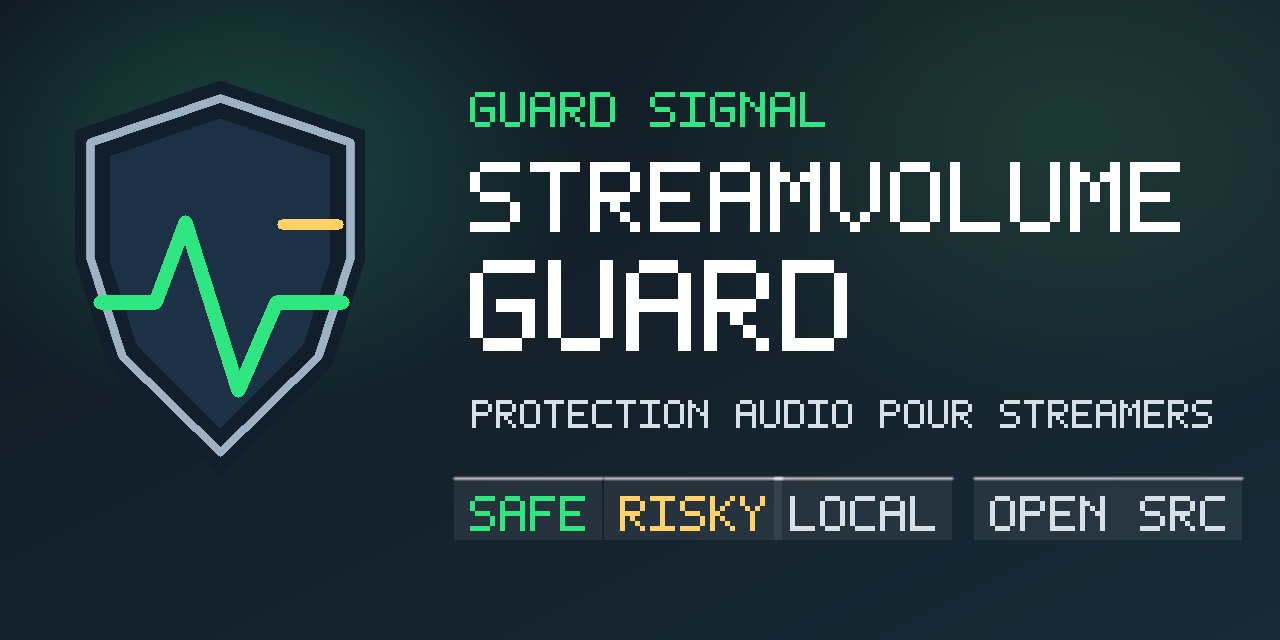
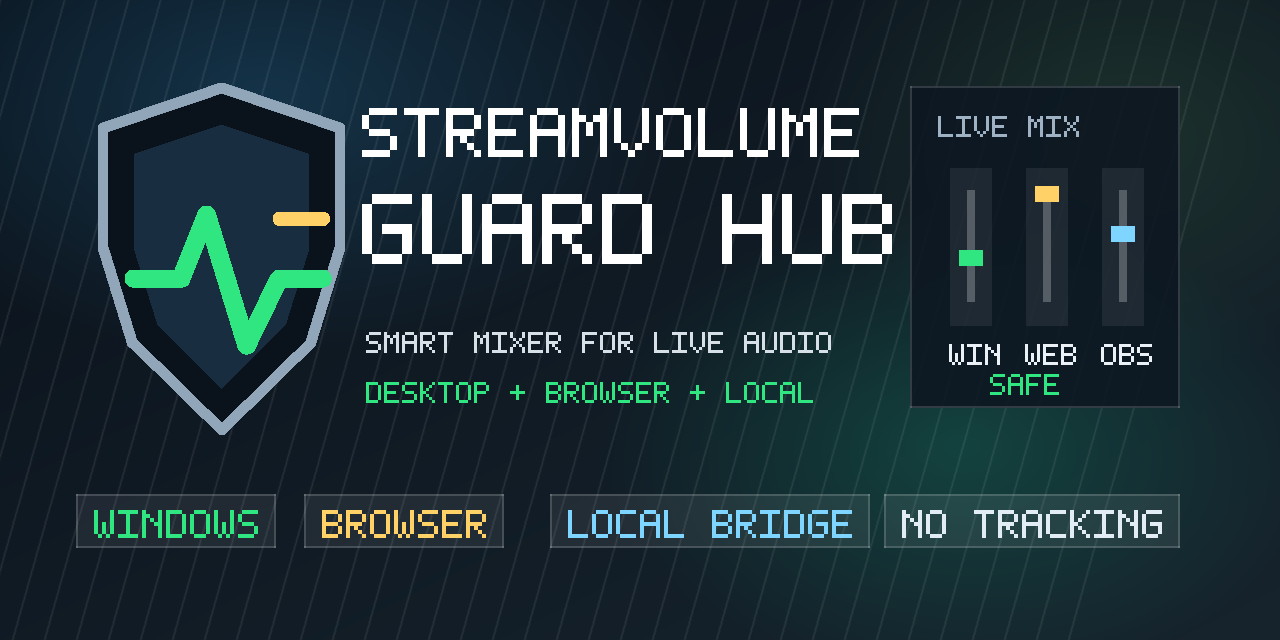
Refresh social preview image

Changed region(s): [[0.0625, 0.125, 0.9375, 0.7188], [0.25, 0.5312, 0.9688, 0.875], [0.0625, 0.75, 0.2188, 0.875]]

diff --git a/apps/browser-extension/tools/generate-social-preview-hub-png.js b/apps/browser-extension/tools/generate-social-preview-hub-png.js
@@ -1,0 +1,282 @@
+const fs = require("node:fs");
+const path = require("node:path");
+const zlib = require("node:zlib");
+
+const root = path.resolve(__dirname, "..");
+const output = path.join(root, "assets", "social-preview.png");
+const width = 1280;
+const height = 640;
+const pixels = Buffer.alloc(width * height * 4);
+
+const font = {
+  " ": ["00000", "00000", "00000", "00000", "00000", "00000", "00000"],
+  "+": ["00000", "00100", "00100", "11111", "00100", "00100", "00000"],
+  "A": ["01110", "10001", "10001", "11111", "10001", "10001", "10001"],
+  "B": ["11110", "10001", "10001", "11110", "10001", "10001", "11110"],
+  "C": ["01111", "10000", "10000", "10000", "10000", "10000", "01111"],
+  "D": ["11110", "10001", "10001", "10001", "10001", "10001", "11110"],
+  "E": ["11111", "10000", "10000", "11110", "10000", "10000", "11111"],
+  "F": ["11111", "10000", "10000", "11110", "10000", "10000", "10000"],
+  "G": ["01111", "10000", "10000", "10111", "10001", "10001", "01110"],
+  "H": ["10001", "10001", "10001", "11111", "10001", "10001", "10001"],
+  "I": ["11111", "00100", "00100", "00100", "00100", "00100", "11111"],
+  "K": ["10001", "10010", "10100", "11000", "10100", "10010", "10001"],
+  "L": ["10000", "10000", "10000", "10000", "10000", "10000", "11111"],
+  "M": ["10001", "11011", "10101", "10101", "10001", "10001", "10001"],
+  "N": ["10001", "11001", "10101", "10011", "10001", "10001", "10001"],
+  "O": ["01110", "10001", "10001", "10001", "10001", "10001", "01110"],
+  "P": ["11110", "10001", "10001", "11110", "10000", "10000", "10000"],
+  "R": ["11110", "10001", "10001", "11110", "10100", "10010", "10001"],
+  "S": ["01111", "10000", "10000", "01110", "00001", "00001", "11110"],
+  "T": ["11111", "00100", "00100", "00100", "00100", "00100", "00100"],
+  "U": ["10001", "10001", "10001", "10001", "10001", "10001", "01110"],
+  "V": ["10001", "10001", "10001", "10001", "10001", "01010", "00100"],
+  "W": ["10001", "10001", "10001", "10101", "10101", "10101", "01010"],
+  "X": ["10001", "10001", "01010", "00100", "01010", "10001", "10001"],
+  "Y": ["10001", "10001", "01010", "00100", "00100", "00100", "00100"]
+};
+
+const crcTable = new Uint32Array(256).map((_, index) => {
+  let crc = index;
+  for (let bit = 0; bit < 8; bit += 1) {
+    crc = crc & 1 ? 0xedb88320 ^ (crc >>> 1) : crc >>> 1;
+  }
+  return crc >>> 0;
+});
+
+function clamp(value) {
+  return Math.max(0, Math.min(255, Math.round(value)));
+}
+
+function mix(a, b, amount) {
+  return a + (b - a) * amount;
+}
+
+function putPixel(x, y, color) {
+  if (x < 0 || y < 0 || x >= width || y >= height) return;
+  const index = (Math.floor(y) * width + Math.floor(x)) * 4;
+  const alpha = (color[3] ?? 255) / 255;
+  pixels[index] = clamp(color[0] * alpha + pixels[index] * (1 - alpha));
+  pixels[index + 1] = clamp(color[1] * alpha + pixels[index + 1] * (1 - alpha));
+  pixels[index + 2] = clamp(color[2] * alpha + pixels[index + 2] * (1 - alpha));
+  pixels[index + 3] = 255;
+}
+
+function fillRect(x, y, w, h, color) {
+  for (let yy = Math.floor(y); yy < y + h; yy += 1) {
+    for (let xx = Math.floor(x); xx < x + w; xx += 1) {
+      putPixel(xx, yy, color);
+    }
+  }
+}
+
+function strokeRect(x, y, w, h, thickness, color) {
+  fillRect(x, y, w, thickness, color);
+  fillRect(x, y + h - thickness, w, thickness, color);
+  fillRect(x, y, thickness, h, color);
+  fillRect(x + w - thickness, y, thickness, h, color);
+}
+
+function fillCircle(cx, cy, radius, color) {
+  const r2 = radius * radius;
+  for (let y = cy - radius; y <= cy + radius; y += 1) {
+    for (let x = cx - radius; x <= cx + radius; x += 1) {
+      const dx = x - cx;
+      const dy = y - cy;
+      if (dx * dx + dy * dy <= r2) putPixel(x, y, color);
+    }
+  }
+}
+
+function drawLine(x1, y1, x2, y2, thickness, color) {
+  const steps = Math.max(Math.abs(x2 - x1), Math.abs(y2 - y1));
+  for (let i = 0; i <= steps; i += 1) {
+    const t = steps === 0 ? 0 : i / steps;
+    fillCircle(Math.round(mix(x1, x2, t)), Math.round(mix(y1, y2, t)), thickness, color);
+  }
+}
+
+function fillPolygon(points, color) {
+  const minY = Math.floor(Math.min(...points.map((point) => point[1])));
+  const maxY = Math.ceil(Math.max(...points.map((point) => point[1])));
+  for (let y = minY; y <= maxY; y += 1) {
+    const nodes = [];
+    let j = points.length - 1;
+    for (let i = 0; i < points.length; i += 1) {
+      const pi = points[i];
+      const pj = points[j];
+      if ((pi[1] < y && pj[1] >= y) || (pj[1] < y && pi[1] >= y)) {
+        nodes.push(pi[0] + ((y - pi[1]) / (pj[1] - pi[1])) * (pj[0] - pi[0]));
+      }
+      j = i;
+    }
+    nodes.sort((a, b) => a - b);
+    for (let i = 0; i < nodes.length; i += 2) {
+      for (let x = Math.floor(nodes[i]); x < Math.ceil(nodes[i + 1]); x += 1) {
+        putPixel(x, y, color);
+      }
+    }
+  }
+}
+
+function drawText(text, x, y, scale, color) {
+  let cursor = x;
+  for (const char of text.toUpperCase()) {
+    const glyph = font[char] || font[" "];
+    glyph.forEach((row, rowIndex) => {
+      [...row].forEach((cell, colIndex) => {
+        if (cell === "1") {
+          fillRect(cursor + colIndex * scale, y + rowIndex * scale, scale, scale, color);
+        }
+      });
+    });
+    cursor += 6 * scale;
+  }
+}
+
+function drawBackground() {
+  for (let y = 0; y < height; y += 1) {
+    for (let x = 0; x < width; x += 1) {
+      const diagonal = (x / width + y / height) / 2;
+      const topGlow = Math.max(0, 1 - Math.hypot((x - 260) / 430, (y - 92) / 260));
+      const greenGlow = Math.max(0, 1 - Math.hypot((x - 960) / 360, (y - 445) / 240));
+      const goldGlow = Math.max(0, 1 - Math.hypot((x - 1120) / 320, (y - 130) / 250));
+      putPixel(x, y, [
+        mix(10, 22, diagonal) + topGlow * 8 + goldGlow * 11,
+        mix(18, 35, diagonal) + topGlow * 30 + greenGlow * 36 + goldGlow * 22,
+        mix(27, 45, diagonal) + topGlow * 42 + greenGlow * 22 + goldGlow * 7,
+        255
+      ]);
+    }
+  }
+
+  for (let x = 0; x < width; x += 32) {
+    drawLine(x, 0, x - 180, height, 1, [255, 255, 255, 8]);
+  }
+}
+
+function drawShield(x, y, scale) {
+  const outer = [
+    [x + 80 * scale, y],
+    [x + 145 * scale, y + 22 * scale],
+    [x + 145 * scale, y + 88 * scale],
+    [x + 129 * scale, y + 140 * scale],
+    [x + 80 * scale, y + 188 * scale],
+    [x + 31 * scale, y + 140 * scale],
+    [x + 15 * scale, y + 88 * scale],
+    [x + 15 * scale, y + 22 * scale]
+  ];
+  const inner = [
+    [x + 80 * scale, y + 20 * scale],
+    [x + 128 * scale, y + 36 * scale],
+    [x + 128 * scale, y + 88 * scale],
+    [x + 115 * scale, y + 130 * scale],
+    [x + 80 * scale, y + 165 * scale],
+    [x + 45 * scale, y + 130 * scale],
+    [x + 32 * scale, y + 88 * scale],
+    [x + 32 * scale, y + 36 * scale]
+  ];
+
+  fillPolygon(outer, [10, 18, 28, 255]);
+  fillPolygon(inner, [25, 45, 64, 255]);
+  outer.forEach((point, index) => {
+    const next = outer[(index + 1) % outer.length];
+    drawLine(point[0], point[1], next[0], next[1], 3 * scale, [146, 166, 186, 220]);
+  });
+  drawLine(x + 32 * scale, y + 105 * scale, x + 58 * scale, y + 105 * scale, 5 * scale, [47, 230, 129, 255]);
+  drawLine(x + 58 * scale, y + 105 * scale, x + 72 * scale, y + 70 * scale, 5 * scale, [47, 230, 129, 255]);
+  drawLine(x + 72 * scale, y + 70 * scale, x + 94 * scale, y + 142 * scale, 5 * scale, [47, 230, 129, 255]);
+  drawLine(x + 94 * scale, y + 142 * scale, x + 112 * scale, y + 105 * scale, 5 * scale, [47, 230, 129, 255]);
+  drawLine(x + 112 * scale, y + 105 * scale, x + 136 * scale, y + 105 * scale, 5 * scale, [47, 230, 129, 255]);
+  drawLine(x + 112 * scale, y + 72 * scale, x + 136 * scale, y + 72 * scale, 4 * scale, [255, 209, 102, 255]);
+}
+
+function drawMixerPanel() {
+  fillRect(910, 86, 270, 322, [12, 22, 33, 224]);
+  strokeRect(910, 86, 270, 322, 2, [255, 255, 255, 38]);
+  drawText("LIVE MIX", 938, 116, 3, [159, 178, 196, 255]);
+
+  const channels = [
+    ["WIN", 950, 250, [47, 230, 129, 255]],
+    ["WEB", 1026, 186, [255, 209, 102, 255]],
+    ["OBS", 1102, 226, [126, 213, 255, 255]]
+  ];
+
+  channels.forEach(([label, x, knobY, color]) => {
+    fillRect(x, 168, 42, 158, [255, 255, 255, 18]);
+    fillRect(x + 17, 190, 8, 112, [255, 255, 255, 62]);
+    fillRect(x + 9, knobY, 24, 16, color);
+    drawText(label, x - 1, 344, 3, [234, 242, 248, 255]);
+  });
+
+  drawText("SAFE", 990, 374, 3, [47, 230, 129, 255]);
+}
+
+function drawBadges() {
+  [
+    ["WINDOWS", 94, 510, [47, 230, 129, 255]],
+    ["BROWSER", 322, 510, [255, 209, 102, 255]],
+    ["LOCAL BRIDGE", 568, 510, [126, 213, 255, 255]],
+    ["NO TRACKING", 902, 510, [226, 236, 244, 255]]
+  ].forEach(([label, x, y, color]) => {
+    fillRect(x - 18, y - 16, label.length * 24 + 32, 54, [255, 255, 255, 18]);
+    strokeRect(x - 18, y - 16, label.length * 24 + 32, 54, 2, [255, 255, 255, 42]);
+    drawText(label, x, y, 4, color);
+  });
+}
+
+function crc32(buffer) {
+  let crc = 0xffffffff;
+  for (const byte of buffer) {
+    crc = crcTable[(crc ^ byte) & 0xff] ^ (crc >>> 8);
+  }
+  return (crc ^ 0xffffffff) >>> 0;
+}
+
+function chunk(type, data) {
+  const typeBuffer = Buffer.from(type, "ascii");
+  const length = Buffer.alloc(4);
+  const crc = Buffer.alloc(4);
+  length.writeUInt32BE(data.length, 0);
+  crc.writeUInt32BE(crc32(Buffer.concat([typeBuffer, data])), 0);
+  return Buffer.concat([length, typeBuffer, data, crc]);
+}
+
+function writePng() {
+  const raw = Buffer.alloc((width * 4 + 1) * height);
+  for (let y = 0; y < height; y += 1) {
+    const rowStart = y * (width * 4 + 1);
+    raw[rowStart] = 0;
+    pixels.copy(raw, rowStart + 1, y * width * 4, (y + 1) * width * 4);
+  }
+
+  const ihdr = Buffer.alloc(13);
+  ihdr.writeUInt32BE(width, 0);
+  ihdr.writeUInt32BE(height, 4);
+  ihdr[8] = 8;
+  ihdr[9] = 6;
+
+  const png = Buffer.concat([
+    Buffer.from("89504e470d0a1a0a", "hex"),
+    chunk("IHDR", ihdr),
+    chunk("IDAT", zlib.deflateSync(raw, { level: 9 })),
+    chunk("IEND", Buffer.alloc(0))
+  ]);
+
+  fs.writeFileSync(output, png);
+  if (png.length >= 1024 * 1024) {
+    throw new Error("Social preview is larger than 1 MB.");
+  }
+}
+
+drawBackground();
+drawShield(76, 88, 1.82);
+drawText("STREAMVOLUME", 362, 108, 7, [255, 255, 255, 255]);
+drawText("GUARD HUB", 362, 194, 10, [255, 255, 255, 255]);
+drawText("SMART MIXER FOR LIVE AUDIO", 366, 332, 3, [215, 224, 231, 255]);
+drawText("DESKTOP + BROWSER + LOCAL", 366, 382, 3, [47, 230, 129, 255]);
+drawMixerPanel();
+drawBadges();
+writePng();
+
+console.log(`Social preview generated: ${output}`);

diff --git a/apps/browser-extension/tools/render-social-preview.js b/apps/browser-extension/tools/render-social-preview.js
@@ -1,1 +1,1 @@
-require("./generate-social-preview-png.js");
+require("./generate-social-preview-hub-png.js");

diff --git a/apps/browser-extension/CHANGELOG.md b/apps/browser-extension/CHANGELOG.md
@@ -6,6 +6,10 @@ Le changelog public est volontairement consolidé : les micro-corrections faites
 
 ## Non publié
 
+### Modifié
+
+- Image de partage `assets/social-preview.png` refaite pour présenter StreamVolume Guard Hub comme mixeur audio hybride desktop, navigateur et bridge local.
+
 ### Corrigé
 
 - Fusion du profil `Universel` dans `Stream` : `Stream` devient le profil recommandé unique pour YouTube, Twitch, TikTok, Kick, Spotify web et Deezer web.

diff --git a/CHANGELOG.md b/CHANGELOG.md
@@ -40,6 +40,7 @@ All notable changes to StreamVolume Guard Hub are tracked here.
 - Changed optional bridge token handling so `/extension-log` is also protected when `BridgeToken` is configured.
 - Changed browser anti-conflict handling to keep a short recent `BrowserGain` history through transient `ObserveOnly` flaps before allowing Windows session correction again.
 - Reused the browser extension Guard Signal icon as the desktop window and executable icon.
+- Reworked the social sharing preview image for StreamVolume Guard Hub with a clearer hybrid mixer presentation.
 
 ### Fixed
 